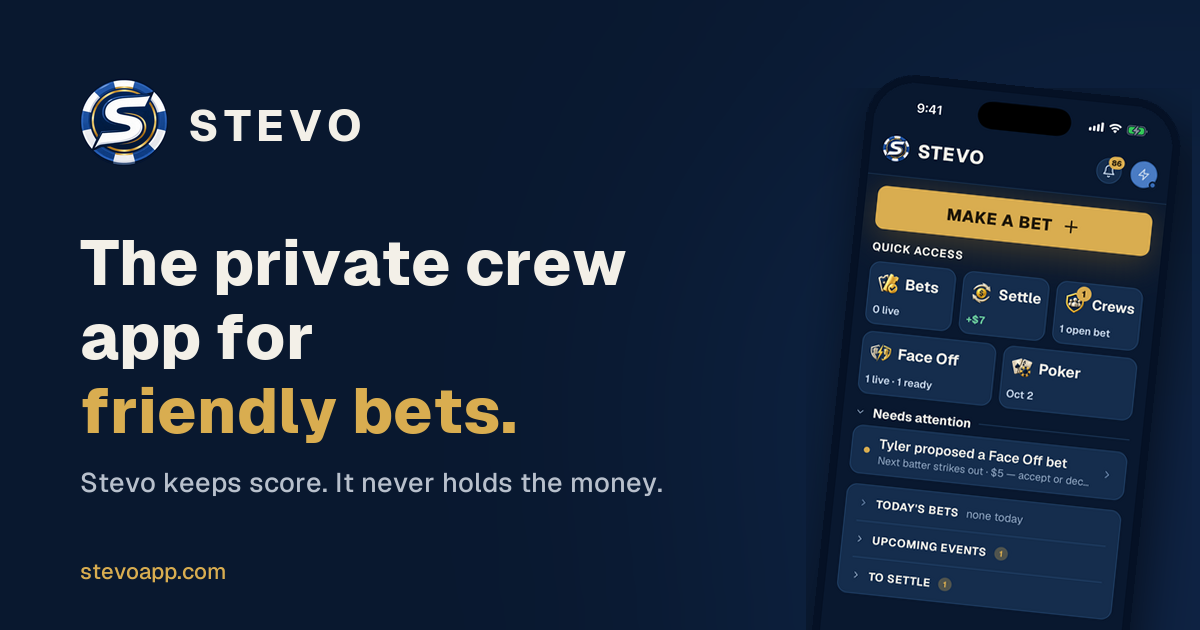
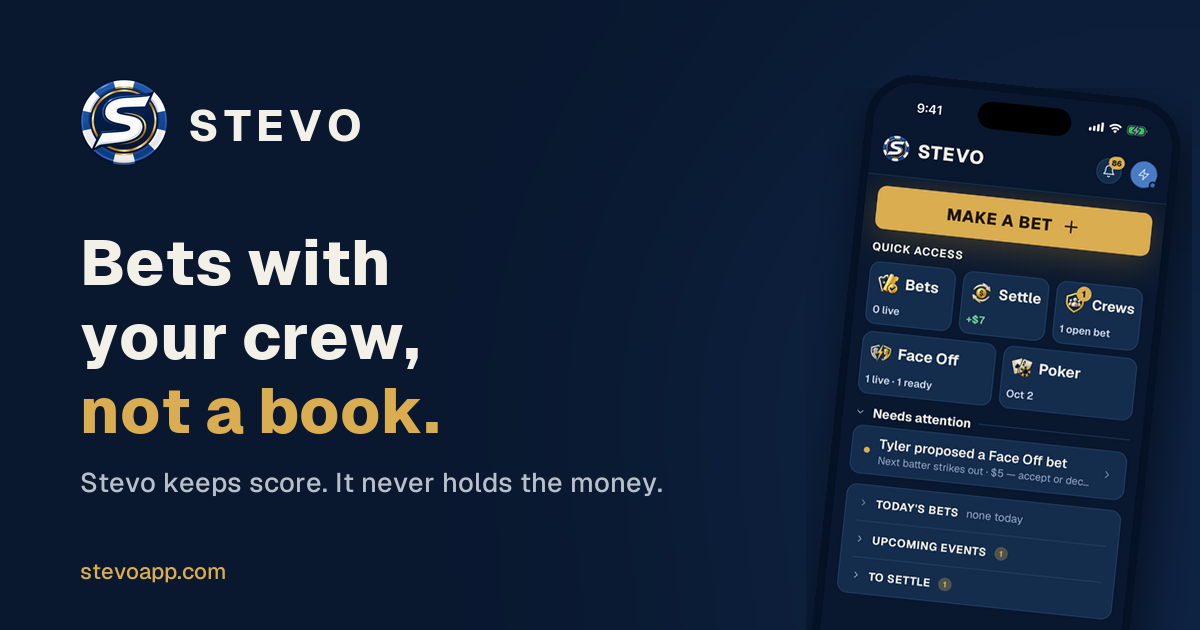
Mirror web/ from the app repo [auto]

Changed region(s): [[0.0617, 0.4825, 0.4317, 0.7238], [0.0617, 0.3619, 0.5242, 0.4524]]

diff --git a/index.html b/index.html
@@ -18,7 +18,7 @@
 <meta property="og:image" content="https://stevoapp.com/og-image.png">
 <meta property="og:image:width" content="1200">
 <meta property="og:image:height" content="630">
-<meta property="og:image:alt" content="The Stevo coin, the line The private crew app for friendly bets, and the app's Home screen">
+<meta property="og:image:alt" content="The Stevo coin, the line Bets with your crew, not a book, and the app's Home screen">
 <meta name="twitter:card" content="summary_large_image">
 <meta name="twitter:site" content="@stevoapp">
 <meta name="twitter:title" content="Stevo | The Private Crew App">
@@ -692,7 +692,7 @@
   <div>
     <div class="hero-badge">Coming soon</div>
     <h1 class="hero-title">
-      The private<br>crew app for<br><span class="accent">friendly bets.</span>
+      Bets with<br>your crew,<br><span class="accent">not a book.</span>
     </h1>
     <p class="hero-sub">
       Your crew already bets on games, faces off head to head over whatever is on, and
@@ -880,7 +880,7 @@
   <div class="money-inner">
     <div class="section-tag">The money</div>
     <h2 class="section-title" style="font-size:clamp(28px,3.4vw,40px)">Stevo never touches it</h2>
-    <p class="section-desc">Stevo is a scorekeeper for friendly bets and games among friends. It is not a sportsbook, a wallet, or a payment processor.</p>
+    <p class="section-desc">Stevo is a scorekeeper for bets and games among friends. It is not a sportsbook, a wallet, or a payment processor.</p>
     <div class="money-grid">
       <div>
         <div class="money-item-title">No wallet, no balances, no house</div>
@@ -979,7 +979,7 @@
       <div class="footer-brand">
         <div class="footer-brand-name">STEVO</div>
       </div>
-      <p class="footer-tagline">The private crew app for friendly bets. Stevo keeps score; it never holds, moves, or pays out money.</p>
+      <p class="footer-tagline">Bets with your crew, not a book. Stevo keeps score; it never holds, moves, or pays out money.</p>
     </div>
     <div class="footer-cols">
       <div>

diff --git a/survey/index.html b/survey/index.html
@@ -124,7 +124,7 @@
 
   <section class="hero">
     <h1>Help choose the look of <span>Stevo</span></h1>
-    <p>Stevo is the app for tracking friendly bets with your crew. Here are eight looks for the home screen — same screen every time, just styled differently. Take a look, then answer six quick questions. About 3 minutes.</p>
+    <p>Stevo is the app for tracking bets with your crew. Here are eight looks for the home screen — same screen every time, just styled differently. Take a look, then answer six quick questions. About 3 minutes.</p>
     <div class="steps">
       <div class="step"><b>1</b> Compare the eight looks</div>
       <div class="step"><b>2</b> Try light and dark</div>

diff --git a/invite/friend.html b/invite/friend.html
@@ -243,7 +243,7 @@
     <div class="tag">Friend invite</div>
     <h1>Someone wants you on Stevo</h1>
     <p class="lede">
-      Stevo is the private crew app for friendly bets, Face Offs and poker nights. It keeps
+      Stevo is the private crew app for bets with your friends, Face Offs and poker nights. It keeps
       score; it never holds, moves, or pays out money. Get the app, then tap this same link
       again and you two are connected.
     </p>

diff --git a/faq.html b/faq.html
@@ -601,7 +601,7 @@
       <div class="footer-brand">
         <div class="footer-brand-name">STEVO</div>
       </div>
-      <p class="footer-tagline">The private crew app for friendly bets. Stevo keeps score; it never holds, moves, or pays out money.</p>
+      <p class="footer-tagline">Bets with your crew, not a book. Stevo keeps score; it never holds, moves, or pays out money.</p>
     </div>
     <div class="footer-cols">
       <div>

diff --git a/privacy.html b/privacy.html
@@ -455,7 +455,7 @@
       <div class="footer-brand">
         <div class="footer-brand-name">STEVO</div>
       </div>
-      <p class="footer-tagline">The private crew app for friendly bets. Stevo keeps score; it never holds, moves, or pays out money.</p>
+      <p class="footer-tagline">Bets with your crew, not a book. Stevo keeps score; it never holds, moves, or pays out money.</p>
     </div>
     <div class="footer-cols">
       <div>

diff --git a/terms.html b/terms.html
@@ -500,7 +500,7 @@
       <div class="footer-brand">
         <div class="footer-brand-name">STEVO</div>
       </div>
-      <p class="footer-tagline">The private crew app for friendly bets. Stevo keeps score; it never holds, moves, or pays out money.</p>
+      <p class="footer-tagline">Bets with your crew, not a book. Stevo keeps score; it never holds, moves, or pays out money.</p>
     </div>
     <div class="footer-cols">
       <div>

diff --git a/crew/join.html b/crew/join.html
@@ -280,7 +280,7 @@
     <div class="tag">Crew invite</div>
     <h1>You're invited to a crew on Stevo</h1>
     <p class="lede">
-      Stevo is the private crew app for friendly bets, Face Offs and poker nights. It keeps
+      Stevo is the private crew app for bets with your friends, Face Offs and poker nights. It keeps
       score; it never holds, moves, or pays out money.
     </p>
 
